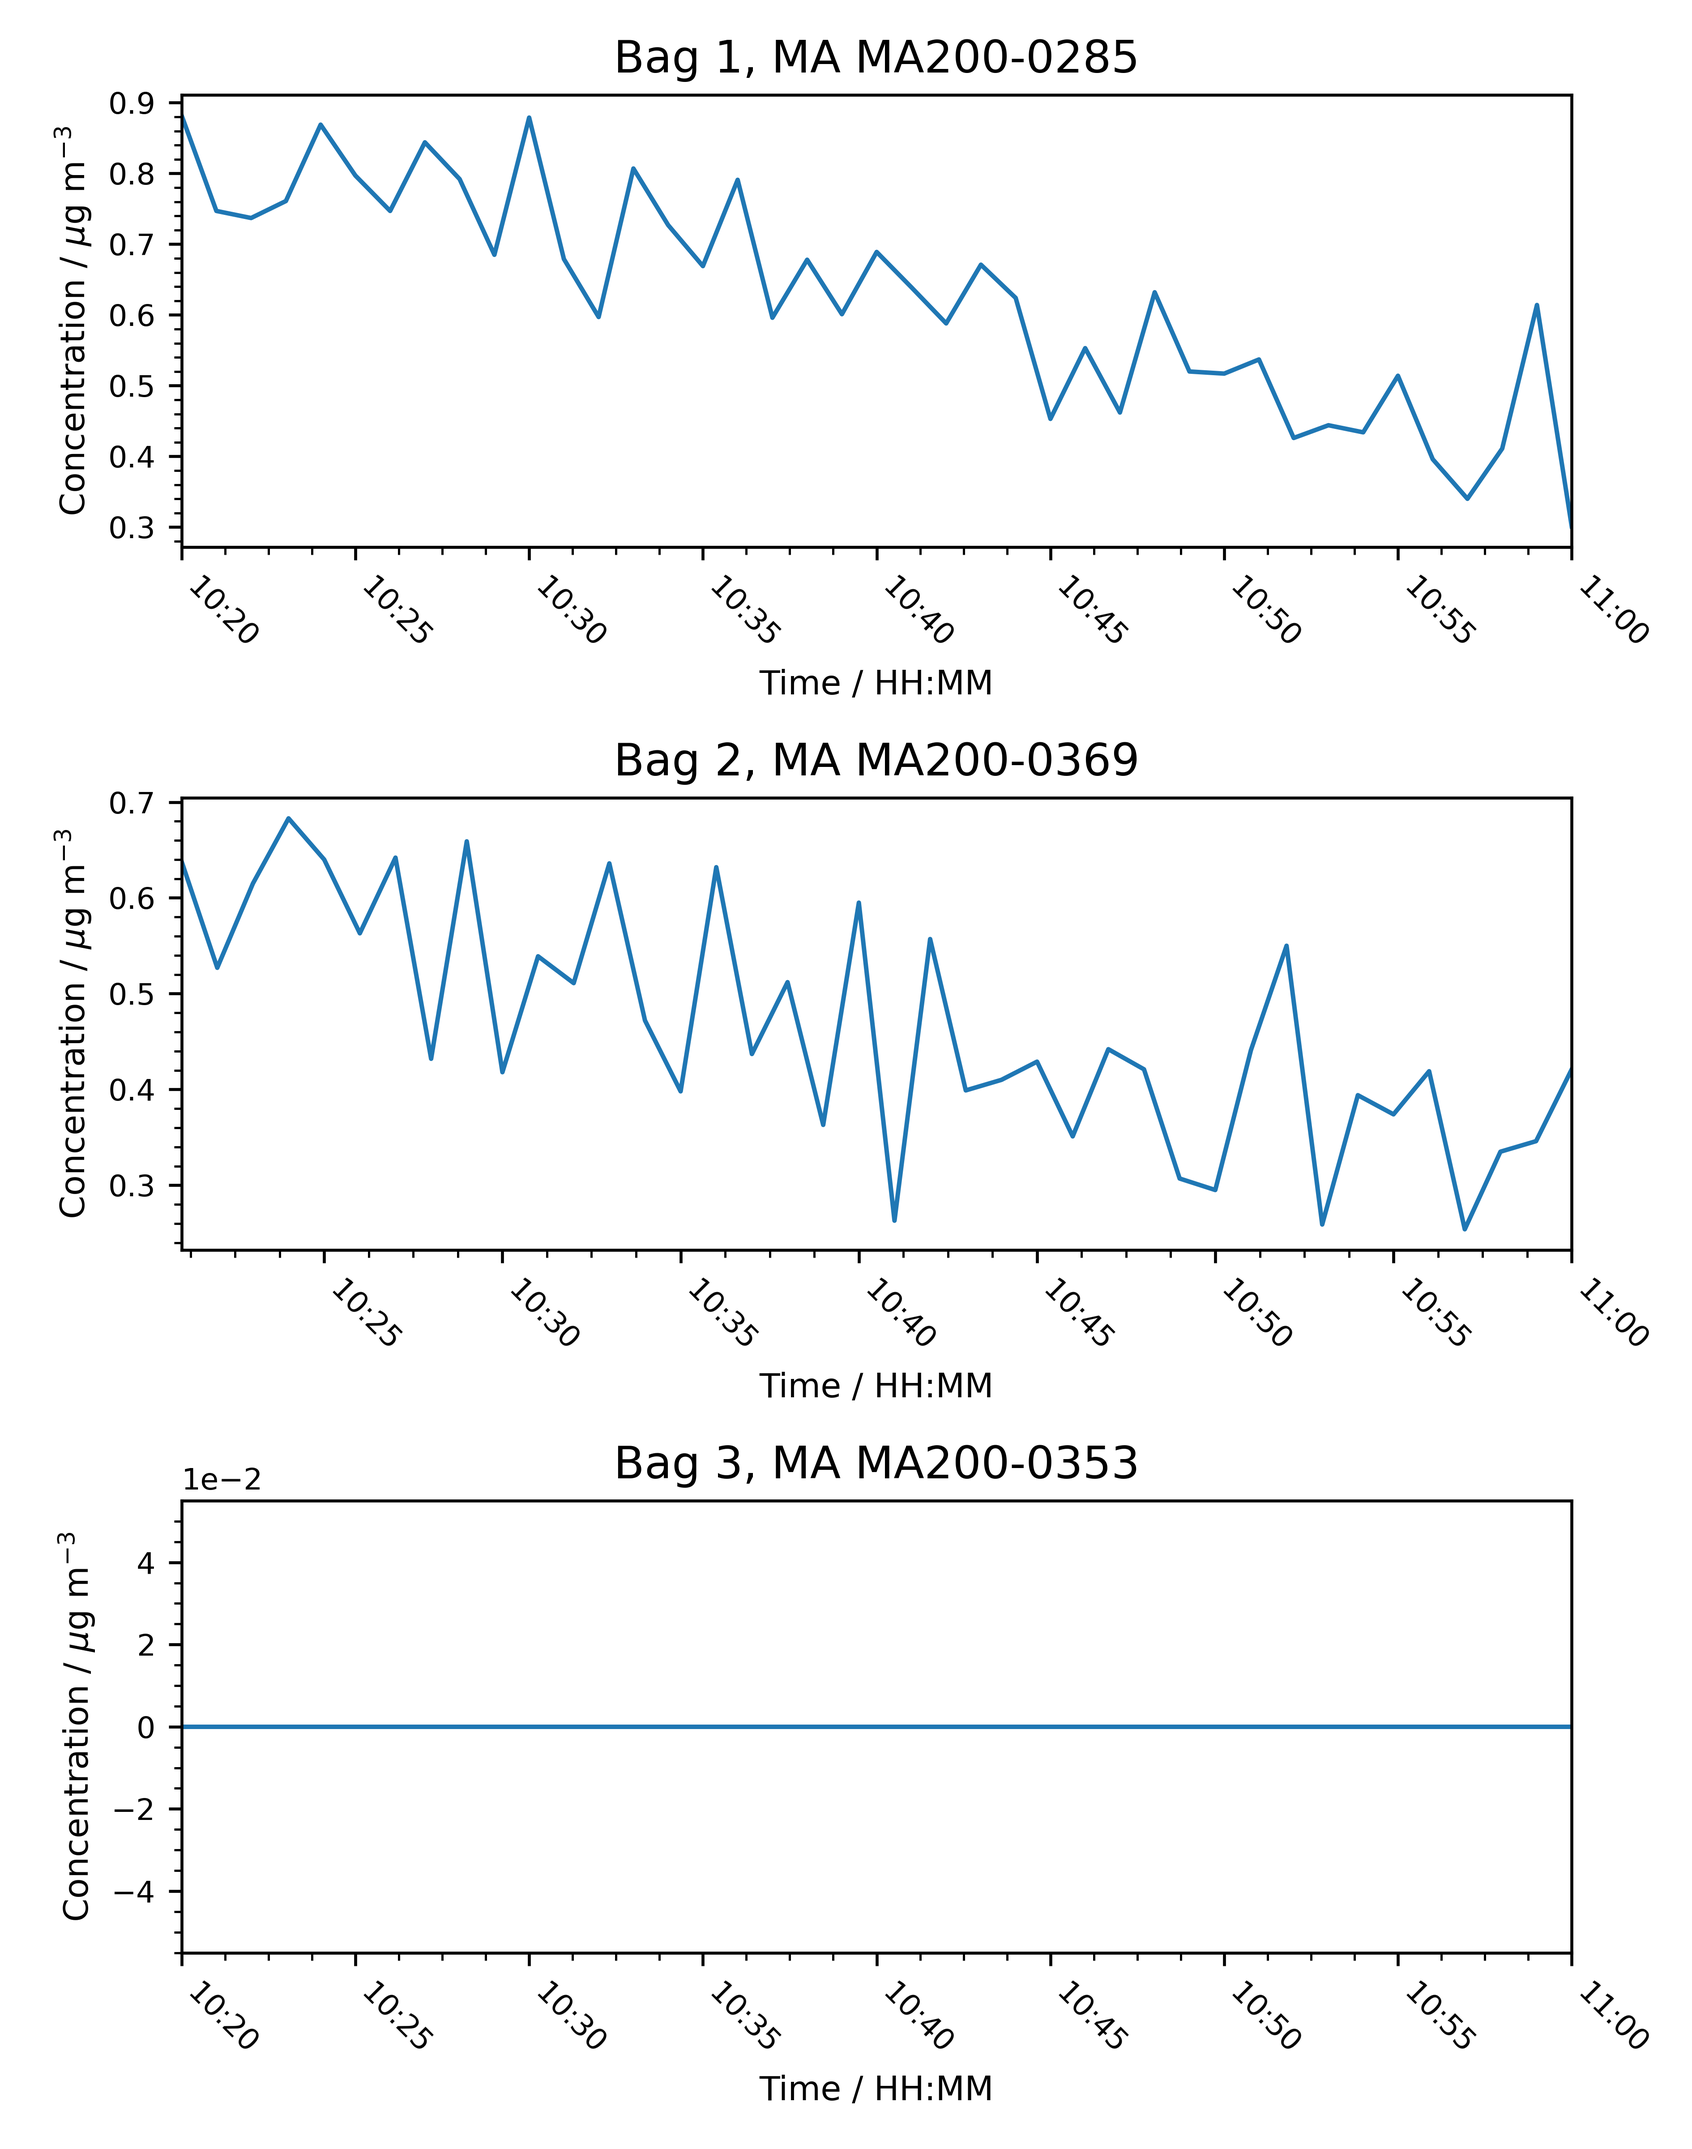
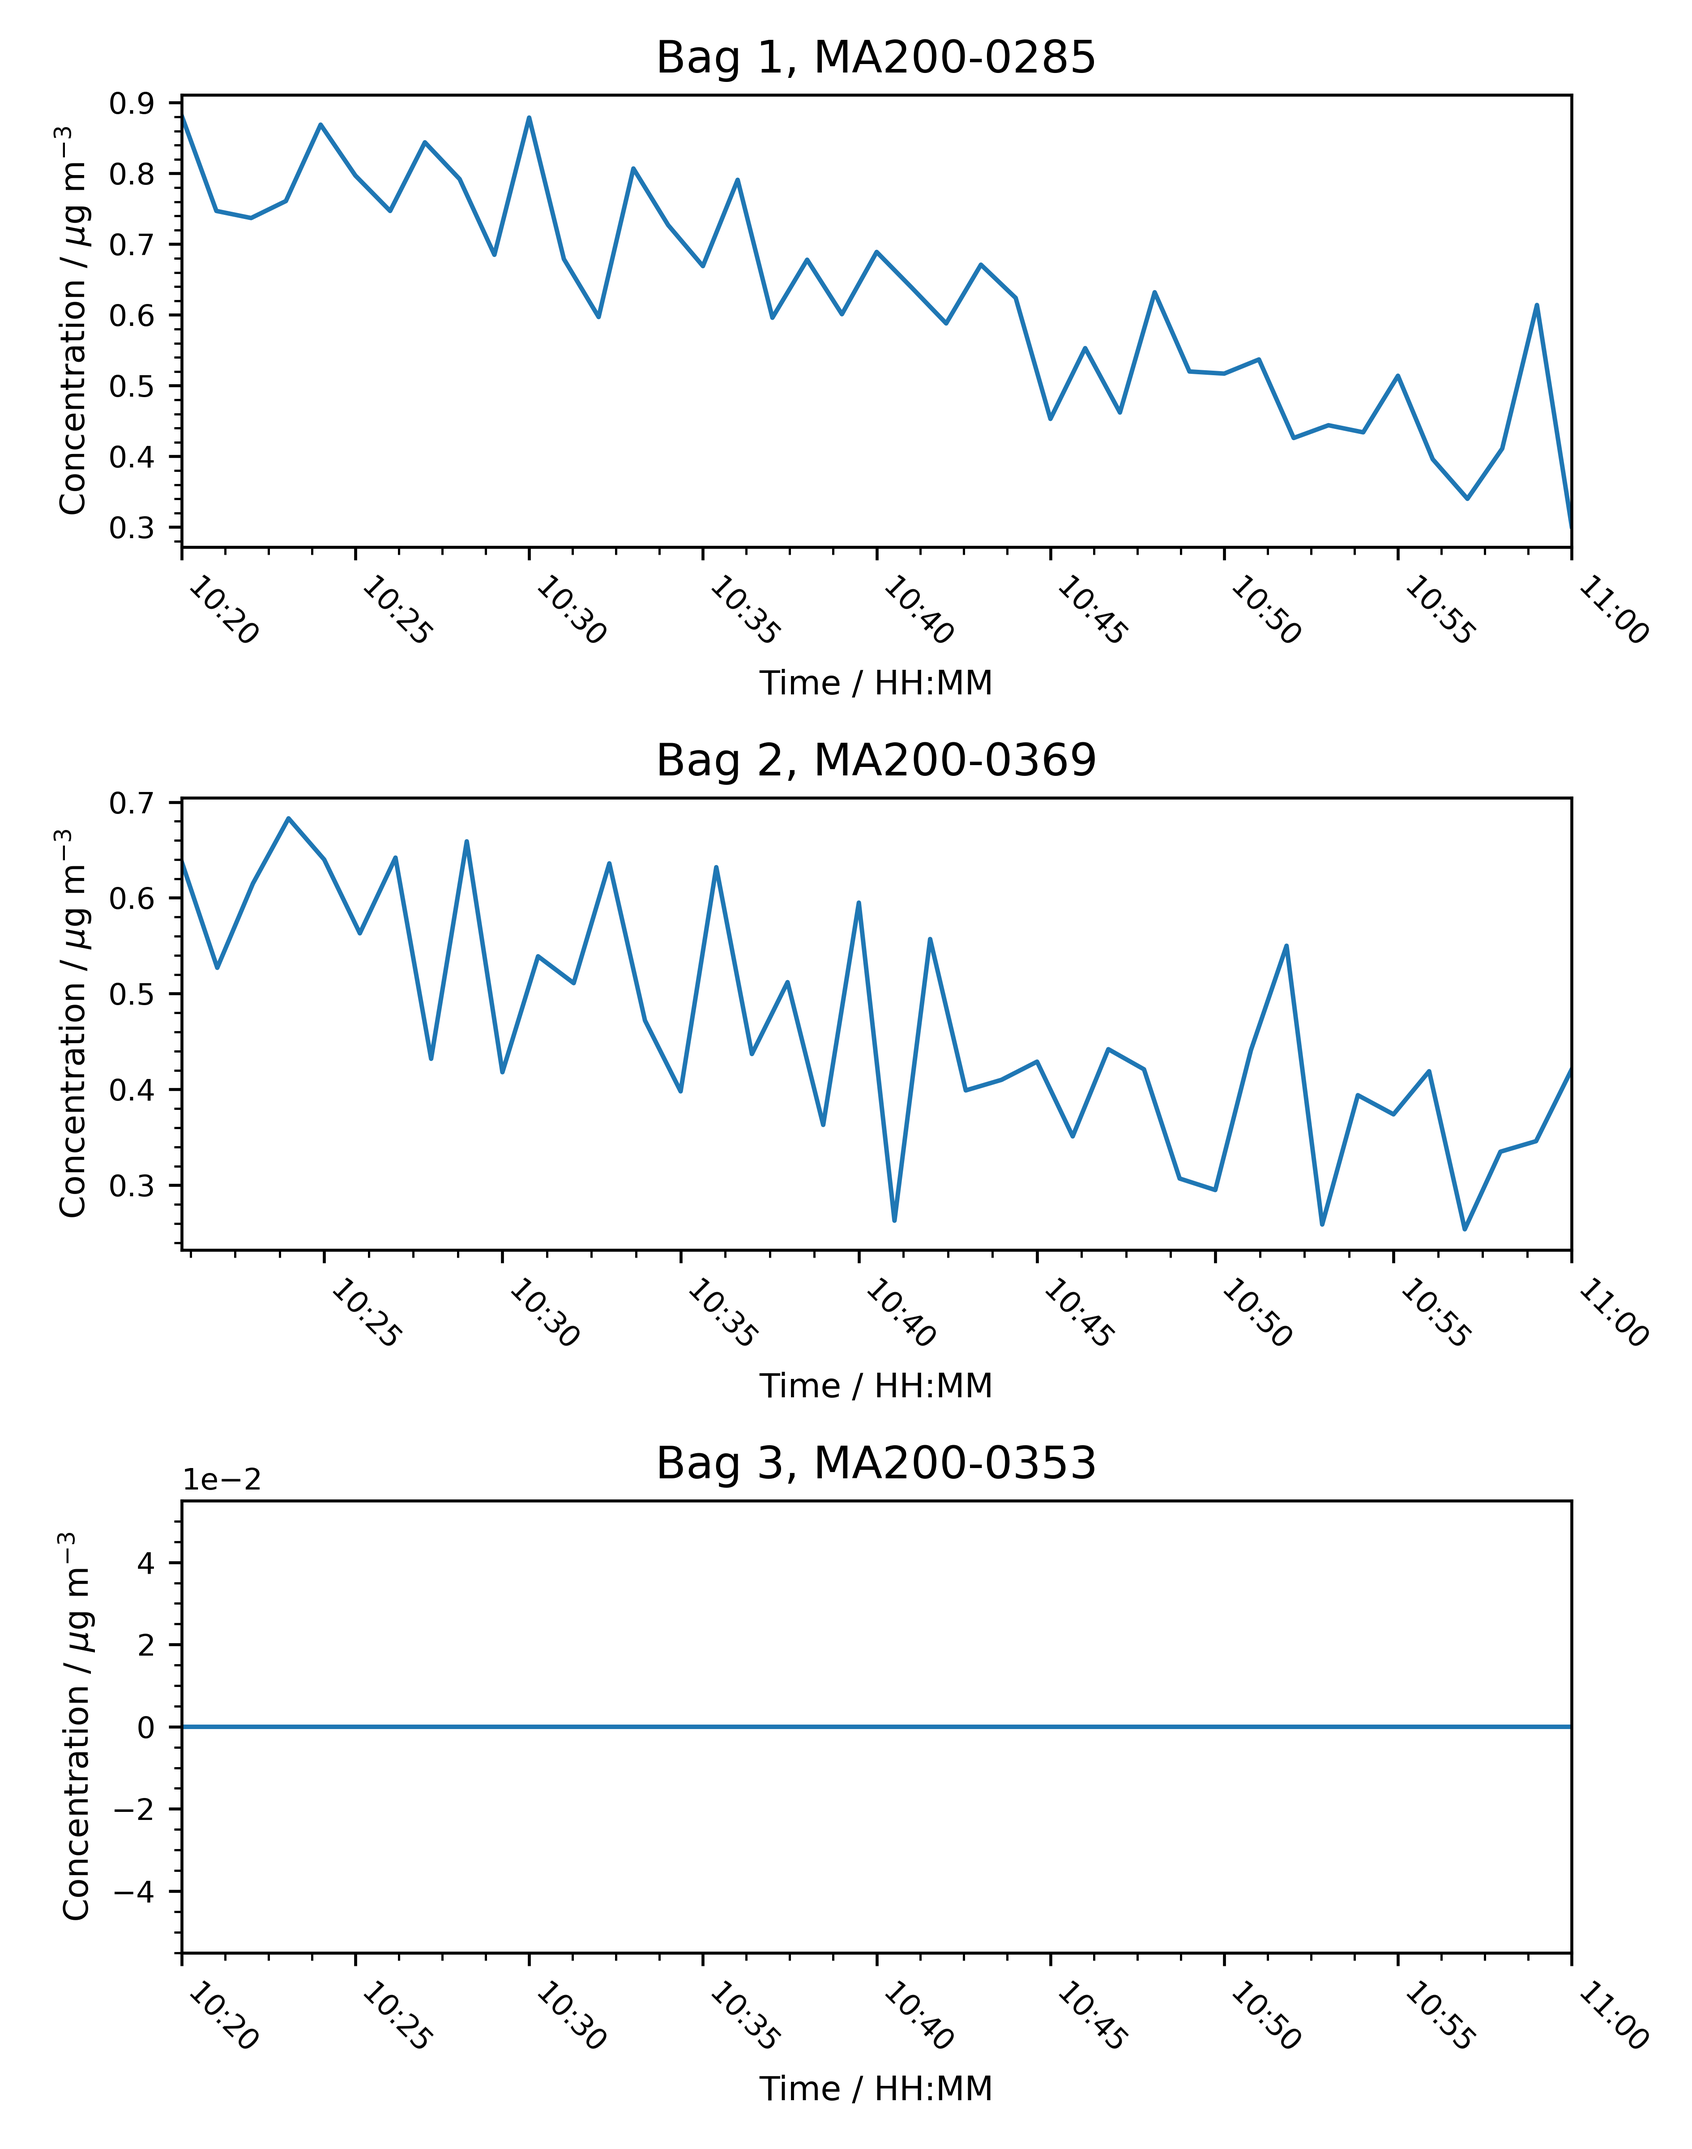
Update

Changed region(s): [[0.3746, 0.3438, 0.6868, 0.375], [0.3746, 0.6562, 0.6556, 0.6875], [0.3746, 0.0, 0.6556, 0.0312]]

diff --git a/plot_functions.py b/plot_functions.py
@@ -174,7 +174,7 @@ def ma_multi_timeseries(ax, data, dict_keys, screening, timestamps, loc):
         ma_single_timeseries(ax[i], df, screening, timestamps, loc)
 
         if screening:
-            title = 'Bag ' + str(i+1) + ', MA ' + key.split('_')[0]
+            title = 'Bag ' + str(i+1) + ', ' + key.split('_')[0]
             ax[i].set_title(title)
 
 def plot_LCS_single(ax, data_dict, dict_key, timelabel, start_time, end_time, concentration, ylabel):
